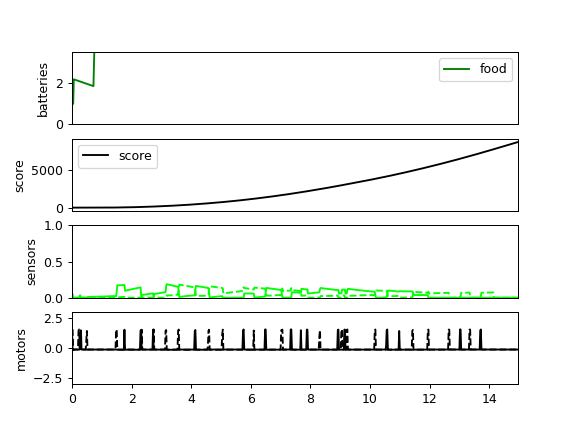
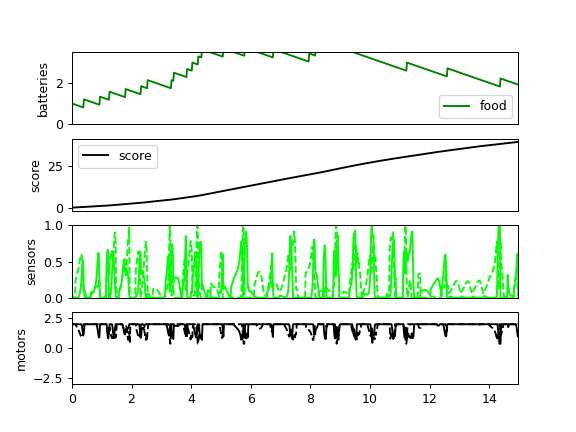
Finished implementing removal of dead robots.

diff --git a/evolve.py b/evolve.py
@@ -167,6 +167,7 @@ def simulate_trial(controllers, trial_index, generating_animation=False):
         for entity_type in EntityTypes:
             for i in range(len(controllers)):
                 controllers[i].set_sensor_states(entity_type, robots[i].sensors[entity_type])
+        
         # tell the robot body what the controller says its motors should be
         for i in range(len(controllers)):
             robots[i].lm, robots[i].rm = controllers[i].get_motor_output((food_b[i], 1))
@@ -176,40 +177,80 @@ def simulate_trial(controllers, trial_index, generating_animation=False):
 
         # check if robot has collided with FOOD, WATER or TRAP and
         # update batteries, etc.  accordingly
+        
+        #
         # check for FOOD collisions
+        #
         for i in range(len(controllers)):
             for light in robots[i].lights[EntityTypes.FOOD]:
                 if (robots[i].x - light.x) ** 2 + (robots[i].y - light.y) ** 2 < ENTITY_RADIUS ** 2:
                     food_b[i] += 20.0 * DT
                     controllers[i].trial_data['eaten_FOOD_positions'].append((light.x, light.y))
                     light.x, light.y = random_light_position(robots)  # relocate entity
-
+        
+        #
+        # check for ROBOT collisions
+        #
+        
+        #for i in range(len(controllers)):
+        #    for light in robots[i].otherRobots:
+        #        if (robots[i].x - light.x) ** 2 + (robots[i].y - light.y) ** 2 < ENTITY_RADIUS ** 2:
+        #            food_b[i] += 20.0 * DT
+        #            controllers[i].trial_data['eaten_FOOD_positions'].append((light.x, light.y))
+        #            # Add code for determining whole wins the fight
+                    
+        
         for i in range(len(controllers)):
-            for light in robots[i].otherRobots:
-                if (robots[i].x - light.x) ** 2 + (robots[i].y - light.y) ** 2 < ENTITY_RADIUS ** 2:
-                    food_b[i] += 20.0 * DT
-                    controllers[i].trial_data['eaten_FOOD_positions'].append((light.x, light.y))
-                    # Add code for determining whole wins the fight
+            for other_robot in robots[i].otherRobots:
+                #If collision detected initiate combat
+                if (robots[i].x - other_robot.x) ** 2 + (robots[i].y - other_robot.y) ** 2 < ENTITY_RADIUS ** 2:
+                    other_robot_index = robots.index(other_robot)
+                    victory_chance = np.random.rand()
+                    if victory_chance <= 0.5:
+                        robots[i].x=10000
+                        robots[i].y=10000
+                        food_b[i] = 0           #dead battery
+                        food_b[other_robot_index] += 20 * DT
+                    else:
+                        other_robot.x=10000
+                        other_robot.y=10000
+                        food_b[other_robot_index] = 0
+                        food_b[i] += 20 * DT
+                        
 
+
+        
+        
+        """
+        #
         # check for WATER collisions
-        """for light in robot.lights[EntityTypes.WATER]:
+        #
+        for light in robot.lights[EntityTypes.WATER]:
             if (robot.x - light.x) ** 2 + (robot.y - light.y) ** 2 < ENTITY_RADIUS ** 2:
                 water_b += 20.0 * DT
                 controller.trial_data['eaten_WATER_positions'].append((light.x, light.y))
                 light.x, light.y = random_light_position(robot)  # relocate entity
+        #
         # check for TRAP collisions
+        #
         for light in robot.lights[EntityTypes.TRAP]:
             if (robot.x - light.x) ** 2 + (robot.y - light.y) ** 2 < ENTITY_RADIUS ** 2:
                 food_b -= 50.0 * DT
                 water_b -= 50.0 * DT
                 score = 0.0
                 controller.trial_data['eaten_TRAP_positions'].append((light.x, light.y))
-                light.x, light.y = random_light_position(robot)  # relocate entity"""
+                light.x, light.y = random_light_position(robot)  # relocate entity
+        """
 
+        
+        """
+        #
         # DEATH -- if either of the batteries reaches 0, the trial is over
-        """if food_b < 0.0: # or water_b < 0.0:
+        #
+        if food_b < 0.0: # or water_b < 0.0:
             food_b = water_b = 0.0
-            break"""
+            break
+        """
 
     # record the position of the entities still not eaten at end of trial (used for plotting)
     for i in range(len(controllers)):
@@ -227,7 +268,8 @@ def simulate_trial(controllers, trial_index, generating_animation=False):
 
 
 def evaluate_fitness(controllers):
-    """An evaluation of an individual's fitness is the average of its
+    """
+    An evaluation of an individual's fitness is the average of its
     performance in N_TRIAL simulations.
     ind -- the controller that is being evaluated
     """
@@ -243,13 +285,15 @@ def generation():
     global pop, generation_index
 
     # parallel evaluation of fitnesses (in parallel using multiprocessing)
+    
     with Pool() as p:
         pop = p.map(evaluate_fitness, pop)
-
-    """for group in range(len(pop)):
-        pop[group] = evaluate_fitness(pop[group])"""
-    # ## sequential evaluation of fitness
-    # pop = [evaluate_fitness(controller) for controller in pop]
+    """
+    for group in range(len(pop)):
+        pop[group] = evaluate_fitness(pop[group])
+    """
+    ## sequential evaluation of fitness
+    #pop = [evaluate_fitness(controller) for controller in pop]
 
     # the fitness of every individual controller in the population
     fitnesses = []
